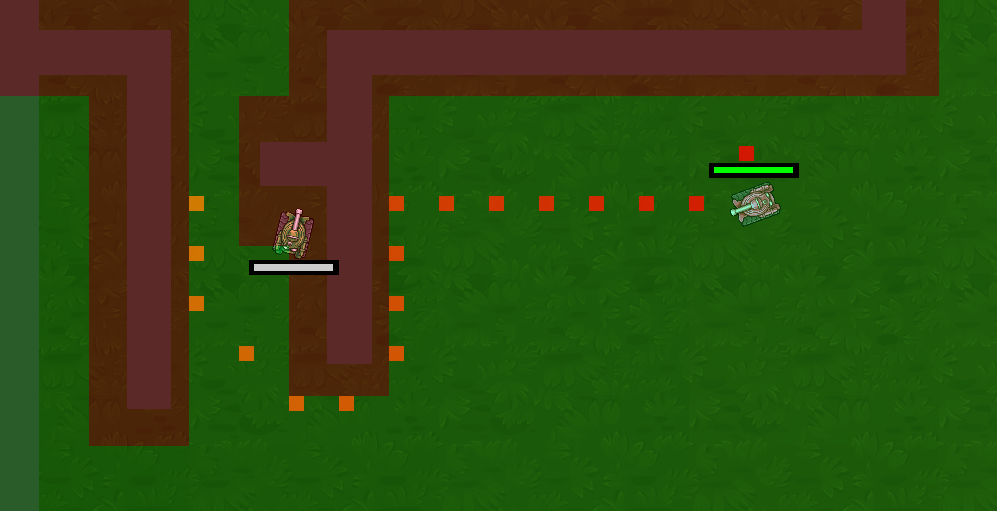
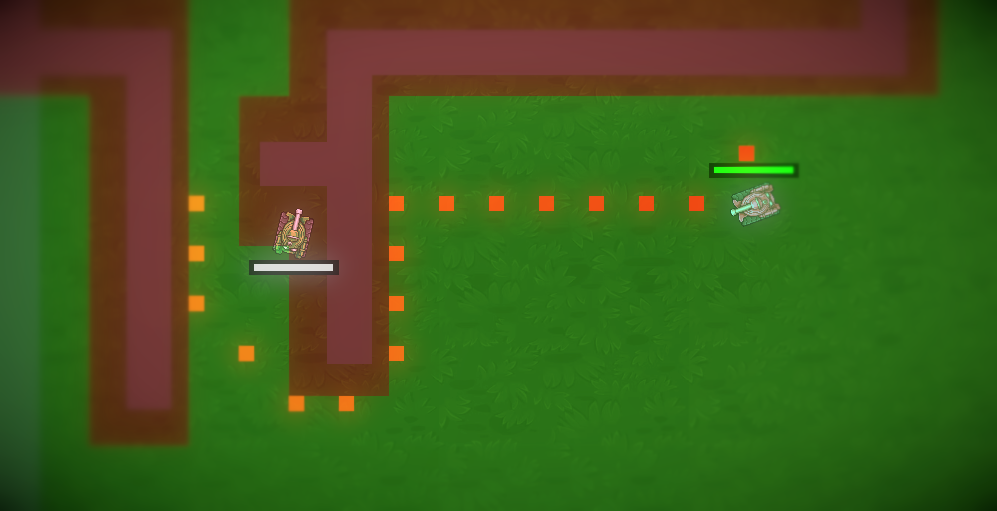
Rendered and applied post-processing

diff --git a/presentations/PRESENTATION.md b/presentations/PRESENTATION.md
@@ -48,7 +48,7 @@ img[alt~="right"] {
 
 - barva mapy se mění podle perlin noisu.
 - na náhodných místech se generují struktury:
-![width:450 round margin](assets/structures.png)
+![width:550 round margin](assets/structures.png)
 
 ---
 
@@ -60,11 +60,11 @@ img[alt~="right"] {
 
 ### ...můžou se pohybovat dopředu a dozadu...
 
-![height:500 round margin center](assets/structures.png)
+![height:500 round margin center](assets/renders/render4_3840x2160_post_processed.png)
 
 ---
 
-![height:500 round margin center](assets/structures.png)
+![height:500 round margin center](assets/renders/render5_3840x2160_post_processed.png)
 
 <h3 style="text-align: right">...otáčet se doprava a doleva...</h3>
 
@@ -72,7 +72,7 @@ img[alt~="right"] {
 
 # <h2 style="text-align: center">...a střílet.</h2>
 
-![height:500 round margin center](assets/structures.png)
+![height:500 round margin center](assets/renders/render3_3840x2160_post_processed.png)
 
 ---
 
